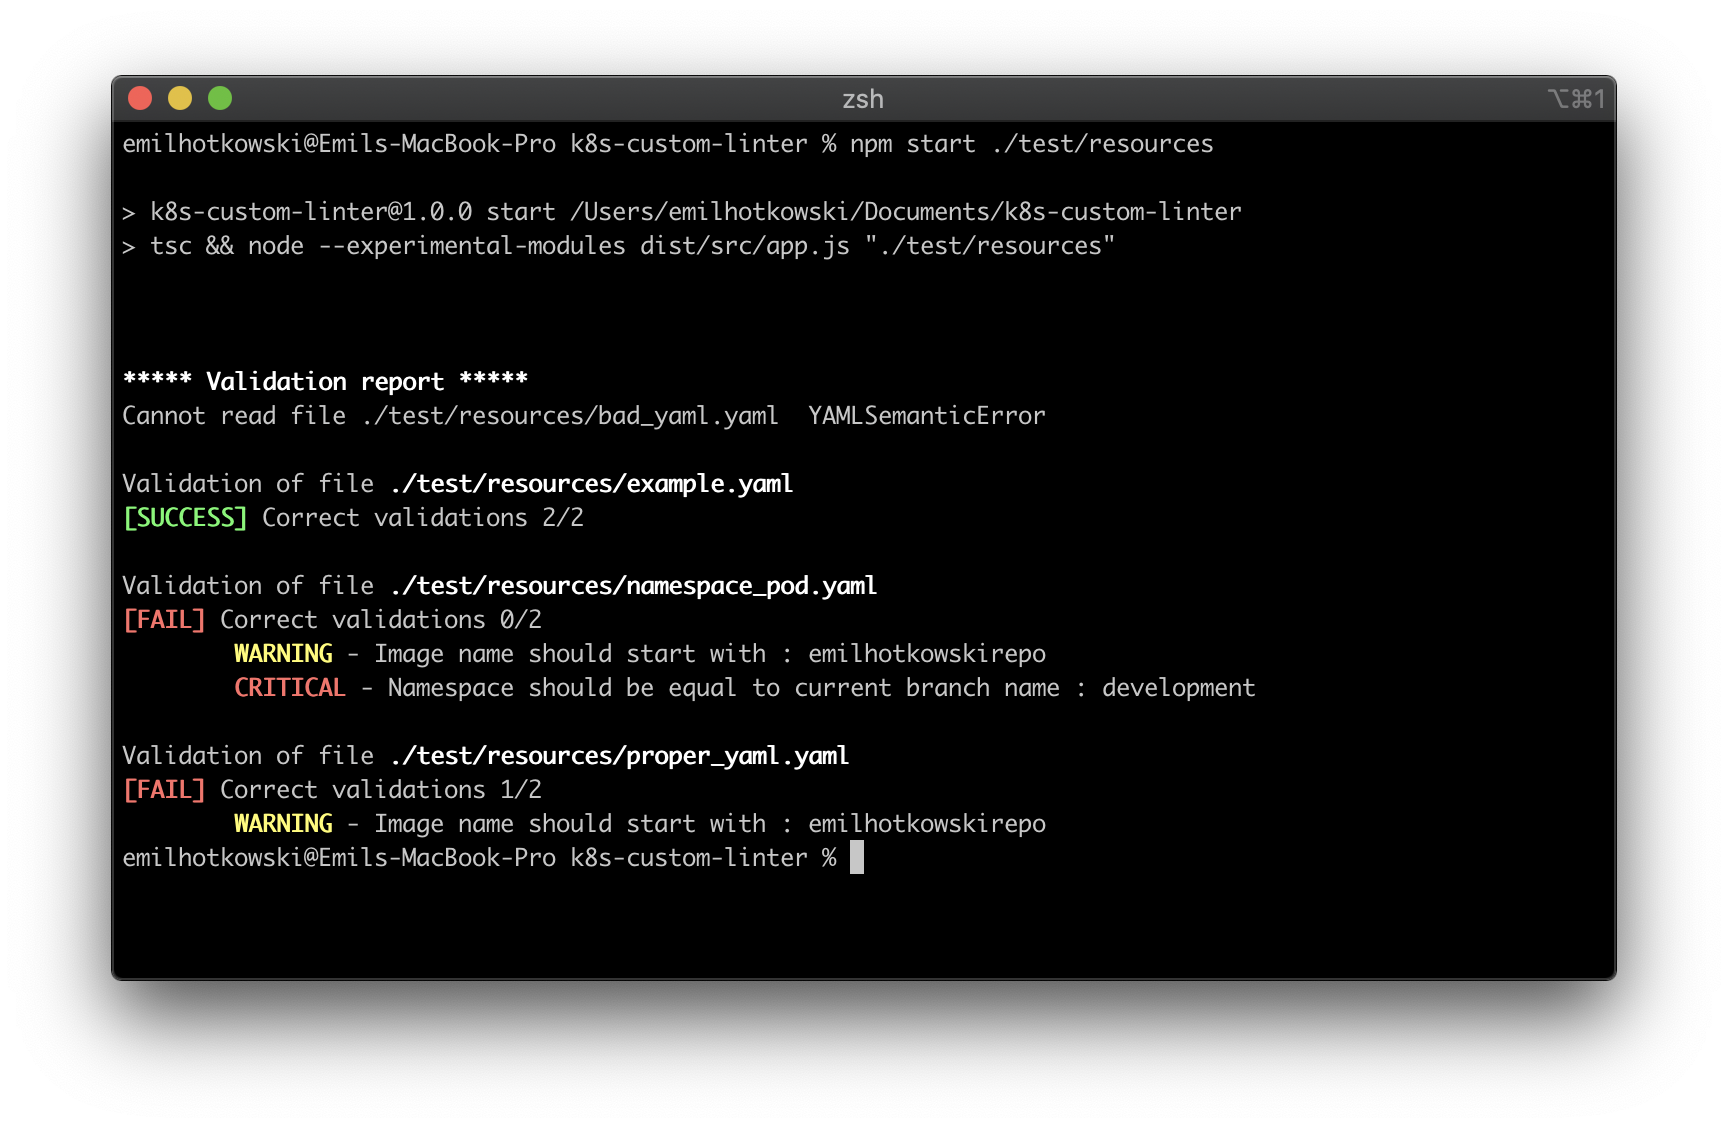
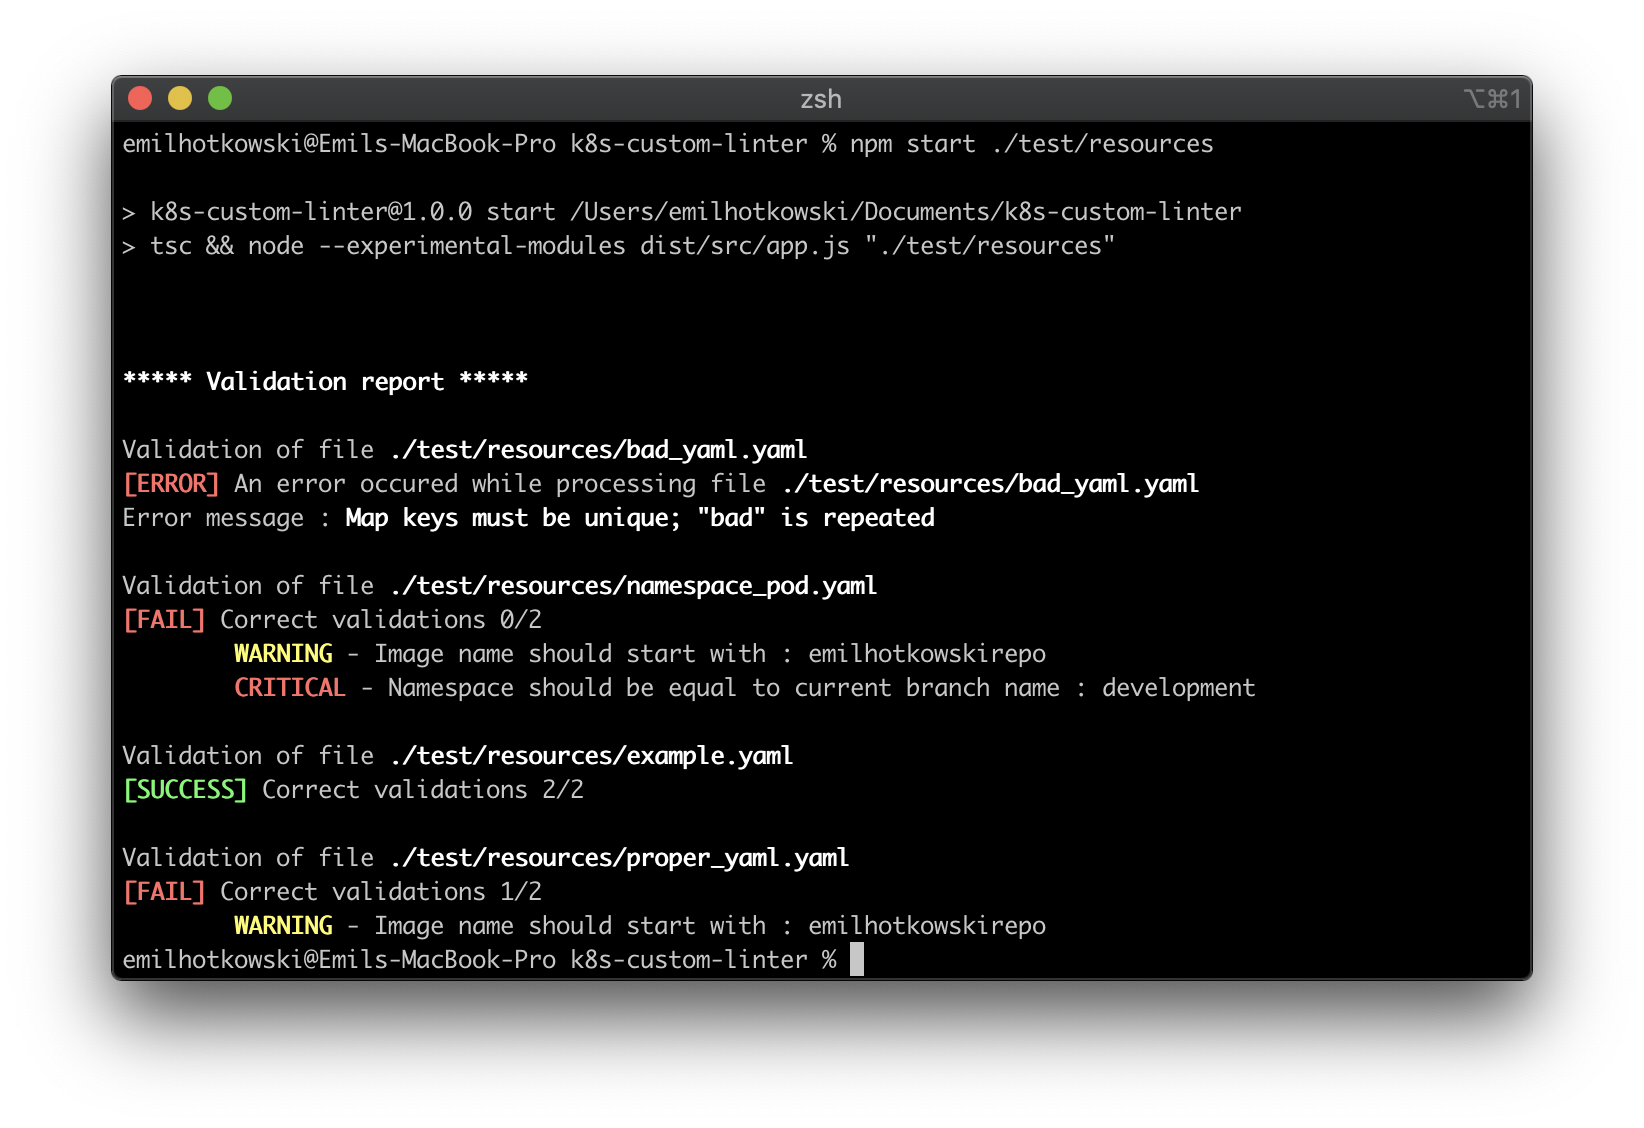
Code quality refactor

Changed region(s): [[0.062, 0.0621, 0.7755, 0.8688], [0.8996, 0.0621, 0.9617, 0.8688]]

diff --git a/src/report/reporter.ts b/src/report/reporter.ts
@@ -5,11 +5,11 @@ import { ValidationReport } from './validationReport';
 
 export class Reporter {
 
-    createReports(results: Result[]): ValidationReport[] {
-        return results.map(result => this.createReport(result))
+    createReports(results: Promise<Result>[]): Promise<ValidationReport>[] {
+        return results.map(promiseResult => promiseResult.then(result => this.createReport(result)))
     }
 
-    private createReport(result: Result): ValidationReport {
+    private async createReport(result: Result): Promise<ValidationReport> {
         const fileInfo = this.createFileInfo(result)
         const validationInfo = this.createValidationInfo(result)
         const validationResultsInfo = this.createValidationResultsInfo(result)
@@ -22,34 +22,45 @@ export class Reporter {
     }
 
     private createFileInfo(result: Result): string {
-        return "Validation of file " + chalk.bold(result.fileName)
+        return "Validation of file " + chalk.bold(result.filePath)
     }
 
     private createValidationInfo(result: Result): string {
-        let info = result.invalidRules.length !== 0 ? chalk.bold.red("[FAIL] ") : chalk.bold.green("[SUCCESS] ")
+        if (result.errorMessage) {
+            return this.createErrorInfo(result)
+        }
+        let info = result.invalidRules.length !== 0 || result.errorMessage ? chalk.bold.red("[FAIL] ") : chalk.bold.green("[SUCCESS] ")
         info += "Correct validations " + result.validRules + "/" + result.numberOfRules
         return info
     }
 
     private createValidationResultsInfo(result: Result): string[] {
-        const info: string[] = []
-        for (const ruleResult of result.invalidRules) {
-            switch (ruleResult.severity) {
-                case Severity.INFO: {
-                    info.push(chalk.bold("INFO") + " - " + ruleResult.messageOnFail)
-                    break
-                }
-                case Severity.WARNING: {
-                    info.push(chalk.bold.yellowBright("WARNING") + " - " + ruleResult.messageOnFail)
-                    break
-                }
-                case Severity.CRITICAL: {
-                    info.push(chalk.bold.redBright("CRITICAL") + " - " + ruleResult.messageOnFail)
-                    break
+        if (!result.errorMessage) {
+            const info: string[] = []
+            for (const ruleResult of result.invalidRules) {
+                switch (ruleResult.severity) {
+                    case Severity.INFO: {
+                        info.push(chalk.bold("INFO") + " - " + ruleResult.messageOnFail)
+                        break
+                    }
+                    case Severity.WARNING: {
+                        info.push(chalk.bold.yellowBright("WARNING") + " - " + ruleResult.messageOnFail)
+                        break
+                    }
+                    case Severity.CRITICAL: {
+                        info.push(chalk.bold.redBright("CRITICAL") + " - " + ruleResult.messageOnFail)
+                        break
+                    }
                 }
             }
+            return info
         }
-        return info
+        return []
+    }
+
+    private createErrorInfo(result: Result): string {
+        return chalk.bold.red("[ERROR] ") + "An error occured while processing file " + chalk.bold(result.filePath) + "\n" +
+        "Error message : " + chalk.bold(result.errorMessage!)
     }
 
 }

diff --git a/test/rules/ruleResolver.test.ts b/test/rules/ruleResolver.test.ts
@@ -3,37 +3,38 @@ import { properYamlObject } from "../__setupTests__"
 
 describe("Rule resolver tests", () => {
 
-    test("Valid yaml according to rules", () => {
+    test("Valid yaml according to rules", async () => {
         process.env.REPOSITORY_NAME = "testrepo"
         const objectUnderTest = new RuleResolver()
 
-        const result = objectUnderTest.resolveRules([
-            {
-                fileName: "proper_yaml.yaml",
+        const result = await objectUnderTest.resolveRules([
+            Promise.resolve({
+                filePath: "proper_yaml.yaml",
                 yamlObject: properYamlObject
-            }
+            })
         ])[0]
 
-        expect(result.fileName).not.toBeUndefined()
+        expect(result.errorMessage).toBeUndefined()
+        expect(result.filePath).not.toBeUndefined()
         expect(result.numberOfRules).toBeGreaterThan(0)
+        expect(result.validRules).toEqual(result.numberOfRules)
         expect(result.invalidRules.length).toEqual(0)
-        expect(result.validRules).toBeGreaterThan(0)
 
     })
 
-    test("Invalid yaml according to rules", () => {
+    test("Invalid yaml according to rules", async () => {
         process.env.REPOSITORY_NAME = "somedifferentreponame"
         const objectUnderTest = new RuleResolver()
 
-        const result =  objectUnderTest.resolveRules([
-            {
-                fileName: "proper_yaml.yaml",
+        const result =  await objectUnderTest.resolveRules([
+            Promise.resolve({
+                filePath: "proper_yaml.yaml",
                 yamlObject: properYamlObject
-            }
+            })
         ])[0]
 
 
-        expect(result.fileName).not.toBeUndefined()
+        expect(result.filePath).not.toBeUndefined()
         expect(result.numberOfRules).toBeGreaterThan(0)
         expect(result.invalidRules.length).toBeGreaterThan(0)
 

diff --git a/src/parser/yamlParser.ts b/src/parser/yamlParser.ts
@@ -1,33 +1,29 @@
-
 import fs from 'fs'
 import YAML from 'yaml'
 import { YamlFile } from './yamlFile'
 
 export class YamlParser {
 
-    async parseYamlFiles(folderPath: string): Promise<YamlFile[]> {
+    async parseYamlFiles(folderPath: string): Promise<Promise<YamlFile>[]> {
         const folder = await fs.promises.readdir(folderPath, { withFileTypes: true })
 
-        return Promise.all(folder.filter(file => file.isFile() && file.name.endsWith('.yaml'))
-            .map(file => this.parseYamlFile(folderPath + "/" + file.name)))
-            .then(vals => vals.filter(val => val) as YamlFile[])
+        return folder.filter(file => file.isFile() && file.name.endsWith('.yaml'))
+            .map(file => this.parseYamlFile(folderPath + "/" + file.name))
     }
 
-    async parseYamlFile(filePath: string): Promise<YamlFile | null> {
+    async parseYamlFile(filePath: string): Promise<YamlFile> {
         return fs.promises.readFile(filePath)
             .then(yamlFile => {
-                const result = {
-                    fileName: filePath,
-                    yamlObject: YAML.parse(yamlFile.toString('utf-8'))
+                try {
+                    return {
+                        filePath,
+                        yamlObject: YAML.parse(yamlFile.toString('utf-8'))
+                    }
+                } catch (e) {
+                    return { filePath, ioError: e }
                 }
-                if (result.yamlObject.errors) {
-                    console.error(`Cannot parse YAML file ${filePath}`)
-                    return null
-                }
-                return result
             }).catch(e => {
-                console.error(`Cannot read file ${filePath} `, e.name)
-                return null
+                return { filePath, ioError: e }
             })
     }
 

diff --git a/src/rules/ruleResolver.ts b/src/rules/ruleResolver.ts
@@ -10,35 +10,32 @@ export class RuleResolver {
         new NamespaceRule(process.env.NAMESPACE!)
     ]
 
-    resolveRules(yamlFiles: YamlFile[]): Result[] {
-        const results: Result[] = []
-        for (const yamlFile of yamlFiles) {
-            results.push(
-                this.applyRule(yamlFile)
-            )
-        }
-
-        return results
+    resolveRules(yamlFiles: Promise<YamlFile>[]): Promise<Result>[] {
+        return yamlFiles.map(filePromise => filePromise.then(yamlFile => this.applyRule(yamlFile)))
     }
 
     private applyRule(yamlFile: YamlFile): Result {
-        let validRules = 0;
-        const invalidRules: Rule[] = []
-        for (const rule of this.#rules) {
-            const validationResult = rule.validate(yamlFile.yamlObject)
-            if (validationResult) {
-                validRules++
-            } else {
-                invalidRules.push(rule)
-            }
+        if (yamlFile.ioError) {
+            return this.getErrorResult(yamlFile)
         }
+
+        const invalidRules = this.#rules.filter(rule => !rule.validate(yamlFile.yamlObject))
 
         return {
             numberOfRules: this.#rules.length,
-            validRules,
+            validRules: this.#rules.length - invalidRules.length,
             invalidRules,
-            fileName: yamlFile.fileName
+            filePath: yamlFile.filePath
         }
     }
 
+    private getErrorResult(yamlFile: YamlFile) : Result {
+        return {
+            errorMessage: yamlFile.ioError!.message,
+            numberOfRules: this.#rules.length,
+            validRules: 0,
+            invalidRules: [],
+            filePath: yamlFile.filePath
+        }
+    }
 }

diff --git a/test/parser/yamlParser.test.ts b/test/parser/yamlParser.test.ts
@@ -34,15 +34,13 @@ describe('Single yaml file parsing', () => {
     });
 
     test('Bad yaml file parsing', async () => {
-        yamlParser.parseYamlFile('test/resources/bad_yaml.yaml')
-            .then(file => fail())
-            .catch(e => expect(e).not.toBeNull())
+        const result = await yamlParser.parseYamlFile('test/resources/bad_yaml.yaml')
+        expect(result.ioError).not.toBeUndefined()
     });
 
     test('Not existing yaml file parsing', async () => {
-        yamlParser.parseYamlFile('test/resources/nonexisting.yaml')
-            .then(file => fail())
-            .catch(e => expect(e).not.toBeNull())
+        const result = await yamlParser.parseYamlFile('test/resources/nonexisting.yaml')
+        expect(result.ioError).not.toBeUndefined()
     });
 })
 
@@ -52,18 +50,8 @@ describe('Whole folder yaml file parsing', () => {
     test('Whole folder yaml parsing', async () => {
         const result = await yamlParser.parseYamlFiles('test/resources')
 
-        const resultsOfPromises = []
-        for (const filePromise of result) {
-            try {
-                const file = await filePromise;
-                if (file) {
-                    resultsOfPromises.push(file);
-                }
-            } catch (e) {
-                // ignore errors
-            }
-        }
+        const correctResults = (await Promise.all(result)).filter(val => val.ioError)
 
-        expect(resultsOfPromises.length).toBeGreaterThan(0)
+        expect(correctResults.length).toBeGreaterThan(0)
     });
 })

diff --git a/src/app.ts b/src/app.ts
@@ -2,6 +2,7 @@ import chalk from "chalk"
 import { mainModule } from "process"
 import { YamlParser } from "./parser/yamlParser"
 import { Reporter } from "./report/reporter"
+import { ValidationReport } from "./report/validationReport"
 import { RuleResolver } from "./rules/ruleResolver"
 
 const folderPath = process.argv[2]
@@ -22,14 +23,14 @@ class App {
             .then(files => this.ruleResolver.resolveRules(files))
         const reports = this.reporter.createReports(results)
 
-        for(const report of reports) {
-            if(report) {
-                console.log("")
-                console.log(report.fileInfo)
-                console.log(report.validationInfo)
-                report.validationResultsInfo.forEach(info => console.log("\t" + info))
-            }
-        }
+        reports.forEach(reportPromise => reportPromise.then(report => this.printReport(report)))
+    }
+
+    private printReport(report: ValidationReport) {
+        console.log("")
+        console.log(report.fileInfo)
+        console.log(report.validationInfo)
+        report.validationResultsInfo.forEach(info => console.log("\t" + info))
     }
 }
 

diff --git a/src/rules/rule.ts b/src/rules/rule.ts
@@ -3,5 +3,5 @@ import { Severity } from "./severity";
 export interface Rule {
     severity: Severity
     messageOnFail: string
-    validate(yaml: any): boolean
+    validate(yamlObject: any): boolean
 }

diff --git a/src/rules/result.ts b/src/rules/result.ts
@@ -4,5 +4,6 @@ export interface Result {
     numberOfRules: number,
     validRules: number,
     invalidRules: Rule[],
-    fileName: string
+    filePath: string,
+    errorMessage? : string
 }

diff --git a/src/parser/yamlFile.ts b/src/parser/yamlFile.ts
@@ -1,6 +1,7 @@
 import { Document } from "yaml";
 
 export interface YamlFile {
-    fileName: string,
-    yamlObject: any
+    filePath: string,
+    yamlObject?: any
+    ioError?: Error
 }
